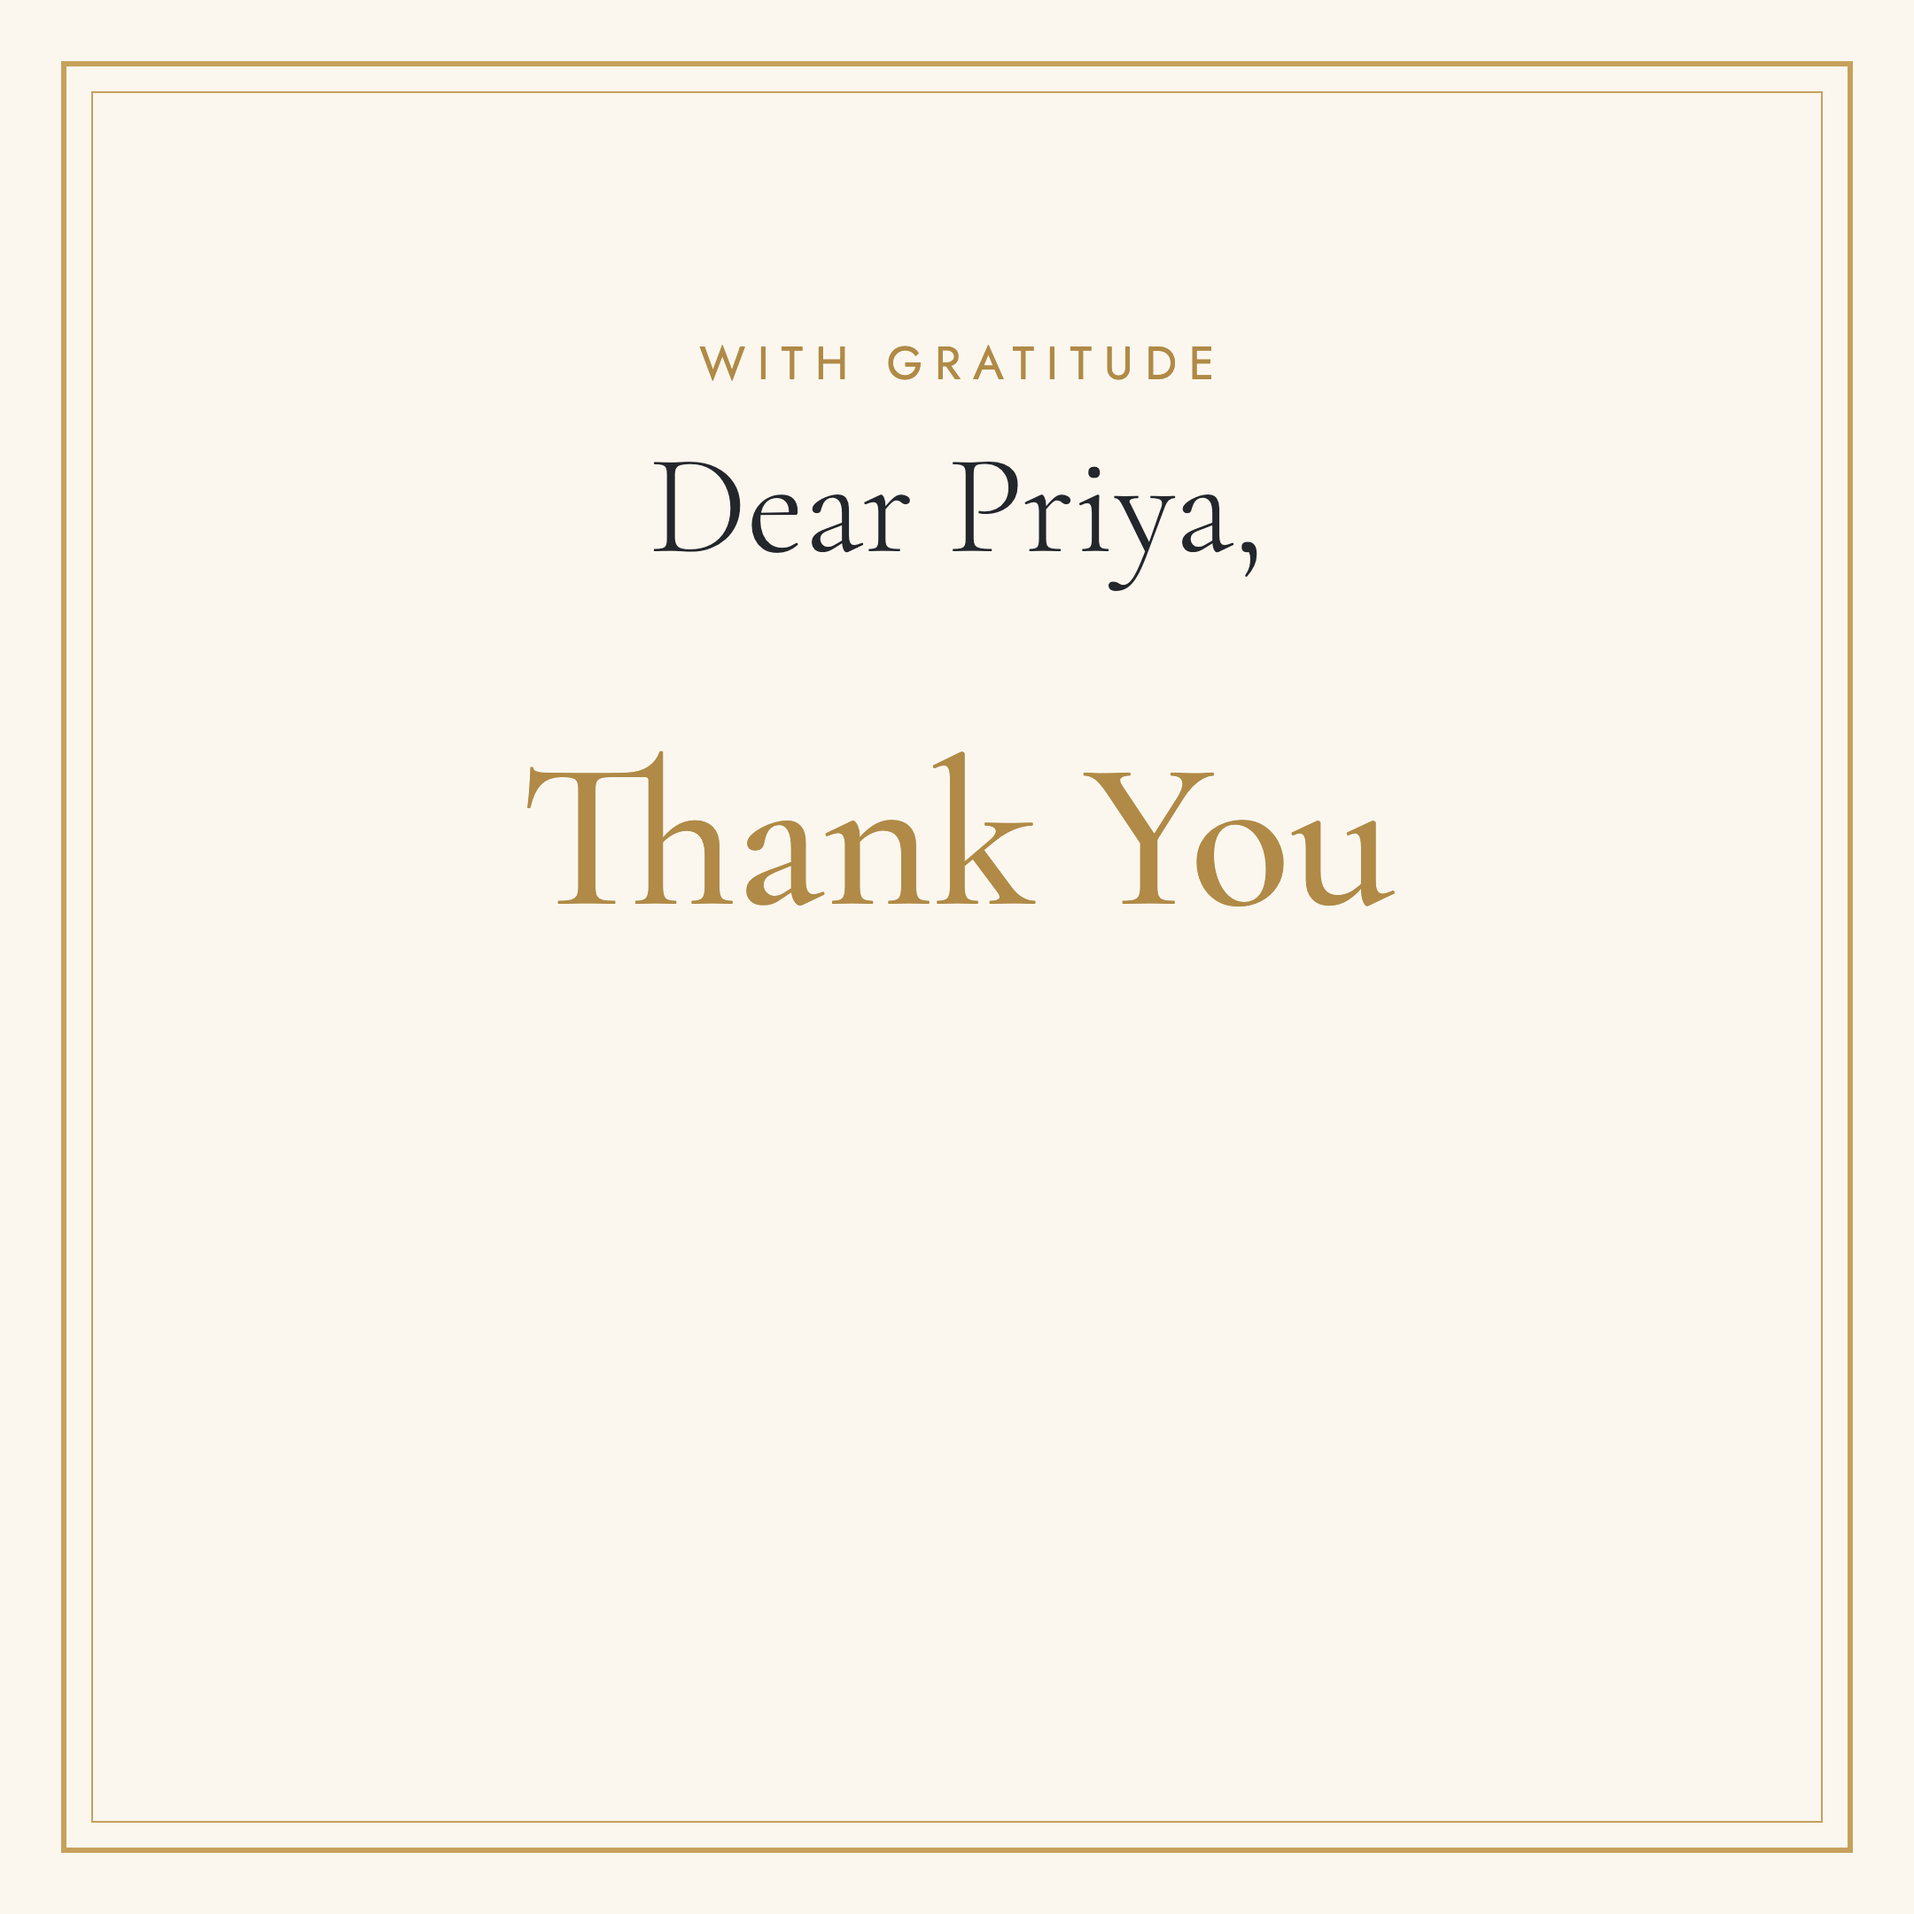
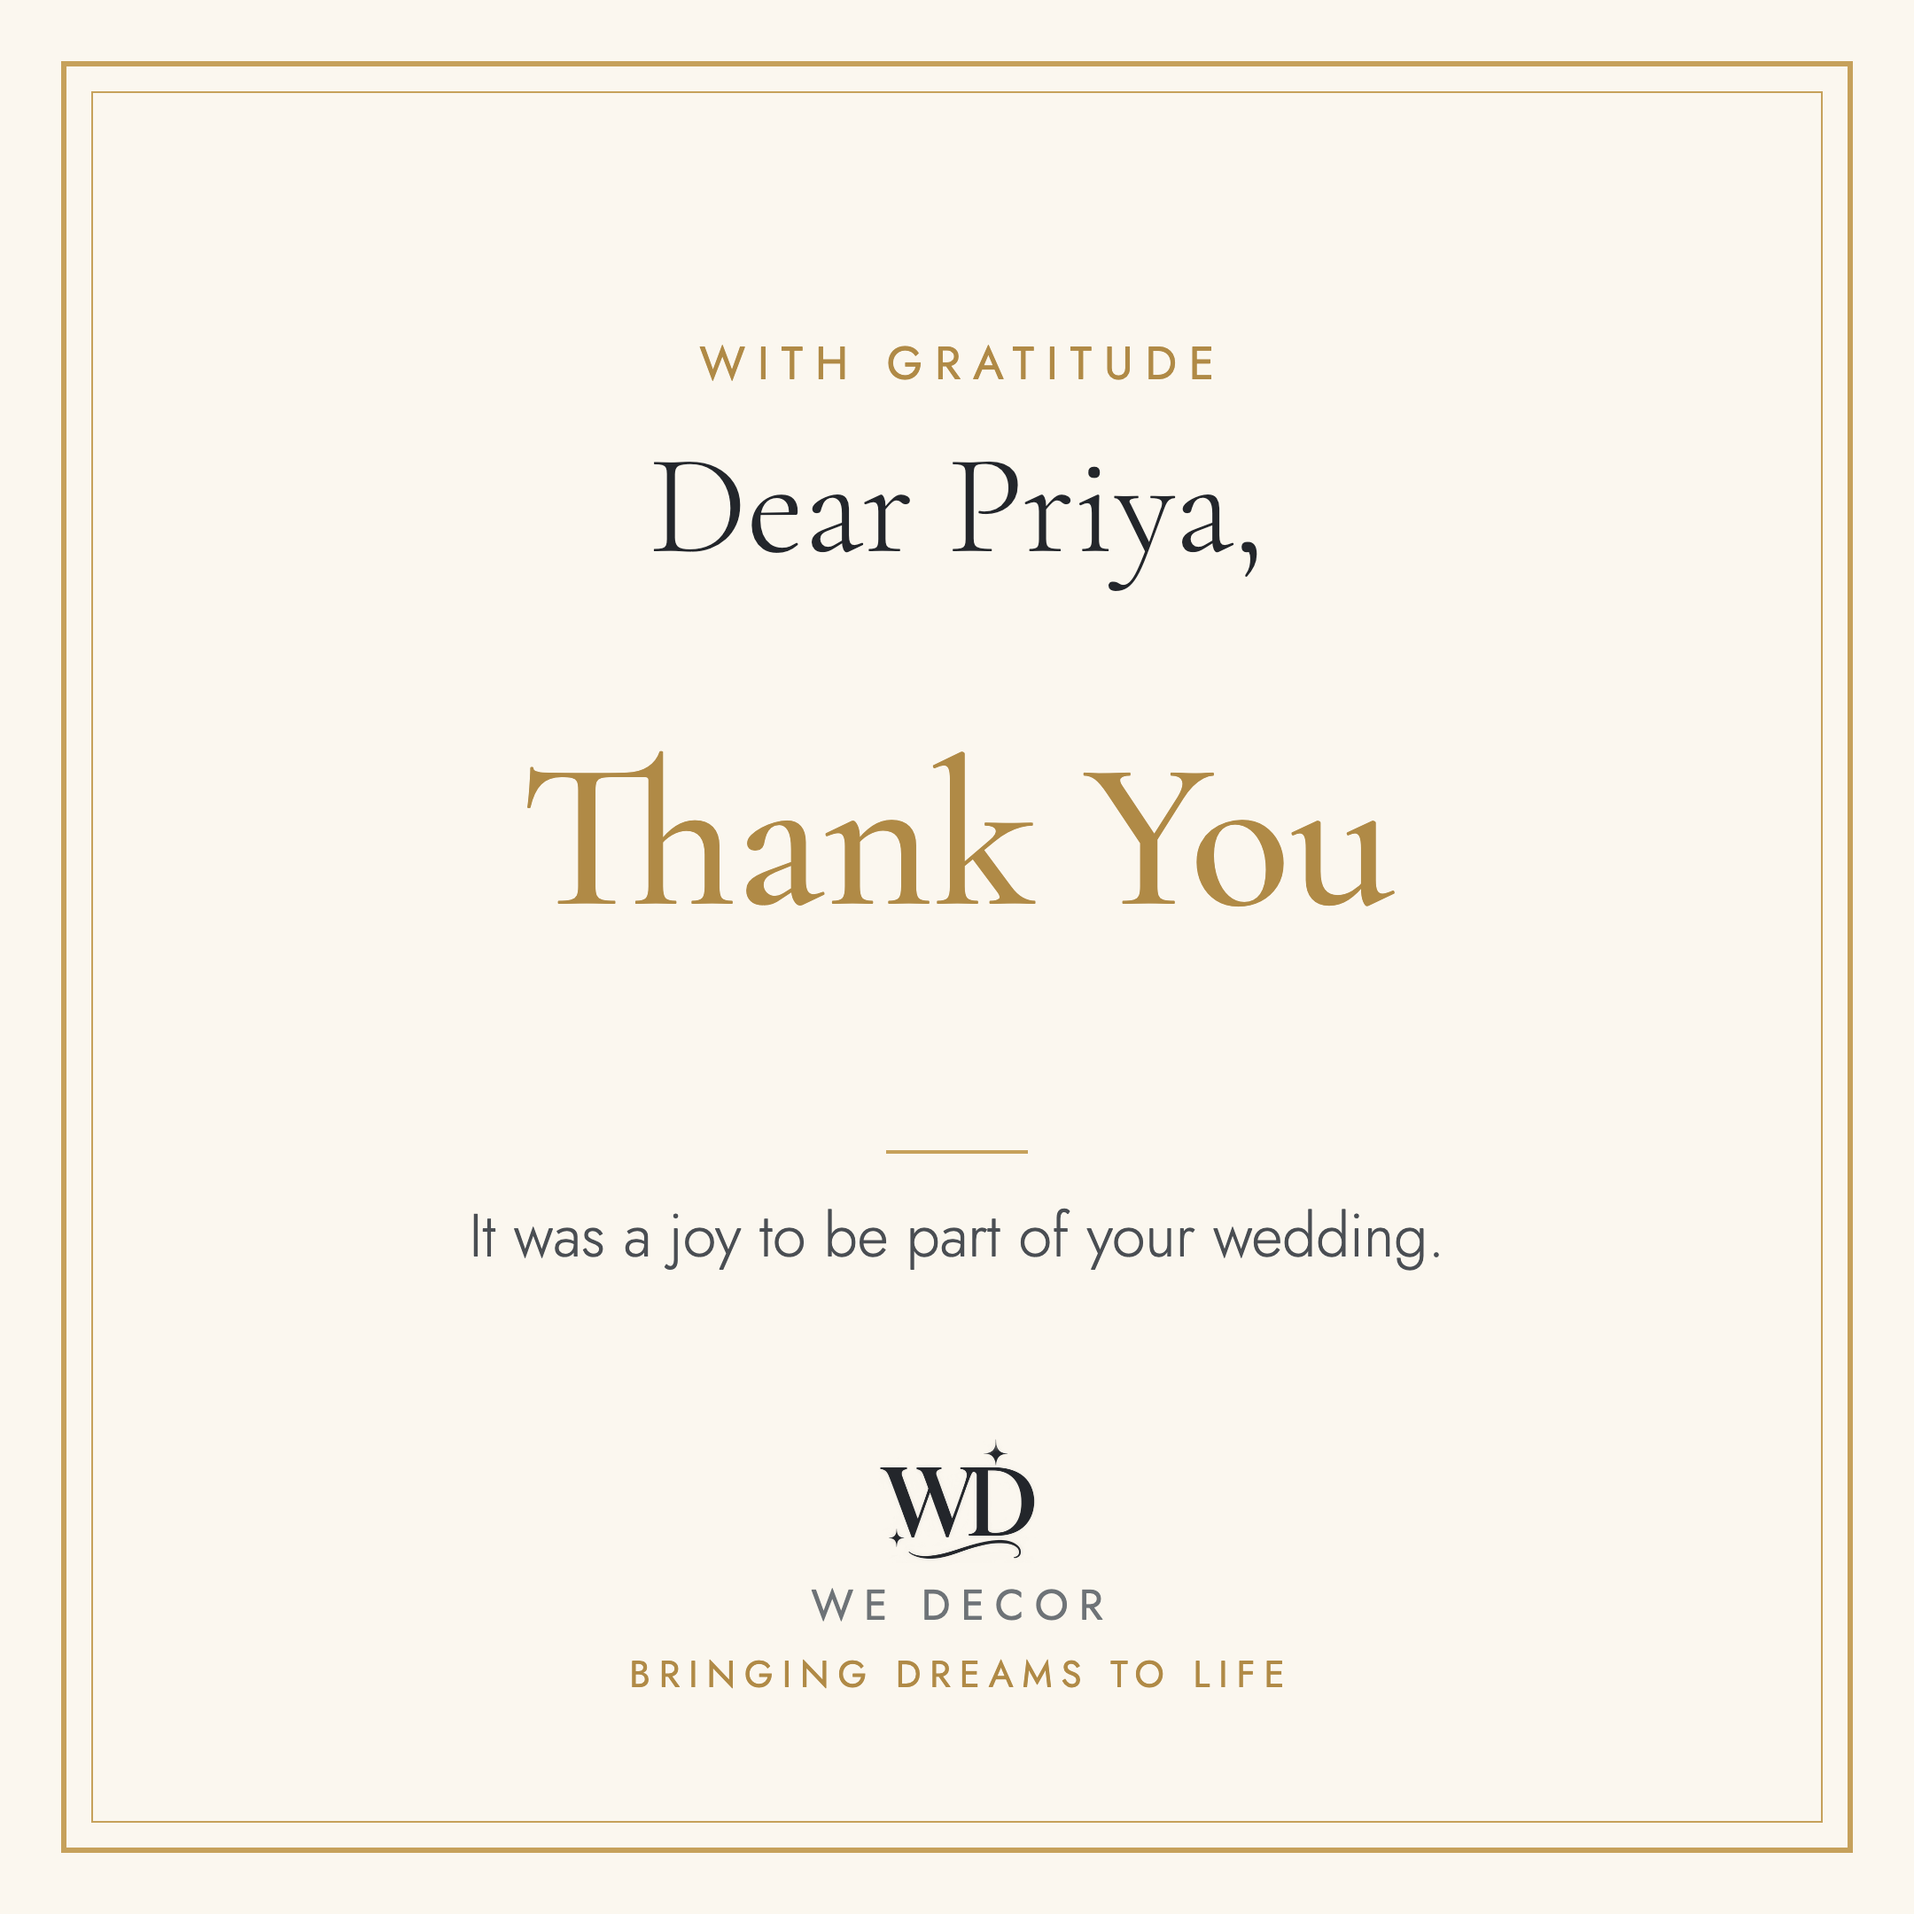
fix(cards): stop clipping the lower half of 2160 renders
Widen the PictureRecorder cull rect to pixel size so divider, body,
and sign-off survive canvas.scale(2); regenerate docs/cards previews.

diff --git a/lib/features/reengagement/presentation/customer_card.dart b/lib/features/reengagement/presentation/customer_card.dart
@@ -456,7 +456,12 @@ class CustomerCardRenderer {
     await GoogleFonts.pendingFonts();
 
     final recorder = ui.PictureRecorder();
-    final canvas = Canvas(recorder, const Rect.fromLTWH(0, 0, logicalSize, logicalSize));
+    // Cull in pixel space (after scale(2) logical 1080 → 2160). A 1080 cull
+    // clipped the lower half of every card (divider / body / sign-off).
+    final canvas = Canvas(
+      recorder,
+      Rect.fromLTWH(0, 0, pixelSize.toDouble(), pixelSize.toDouble()),
+    );
     canvas.scale(2);
 
     // Fill + frames in logical space (scale already applied).
